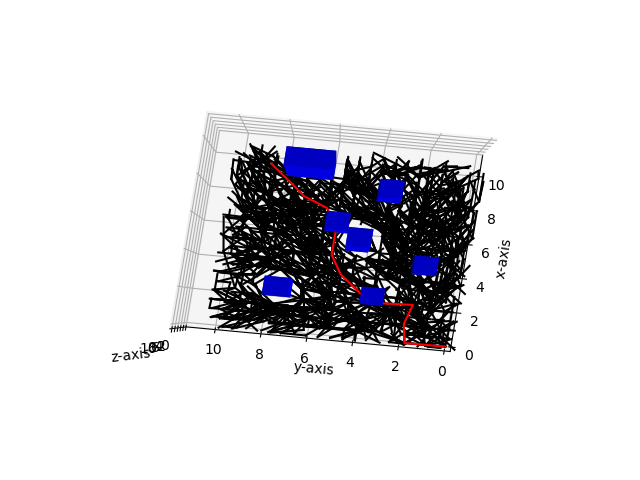
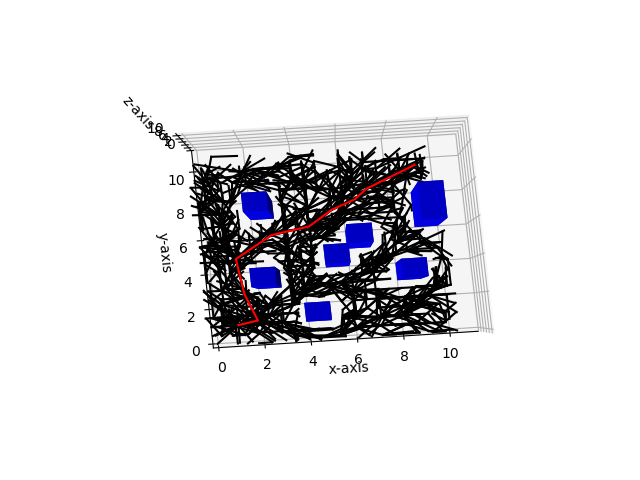
Adding the final working RRT star code with rewiring

Changed region(s): [[0.1875, 0.1875, 0.8125, 0.7812]]

diff --git a/RRT_star_fully_functional/RRT_star.py b/RRT_star_fully_functional/RRT_star.py
@@ -1,0 +1,321 @@
+import cv2
+import numpy as np
+import time
+import math
+import random 
+from sklearn.neighbors import KDTree
+from mpl_toolkits import mplot3d
+import matplotlib.pyplot as plt
+from mpl_toolkits.mplot3d import axes3d 
+import matplotlib.pyplot as plt 
+from matplotlib import style 
+from scipy import spatial
+import copy
+from queue import PriorityQueue 
+q = PriorityQueue() 
+plt.ion()
+# style.use('ggplot') 
+length = 10
+breadth = 10
+height = 10
+fig = plt.figure()
+ax = plt.axes(projection='3d')
+
+ax.set_xlim3d(0, 11)
+ax.set_ylim3d(0,11)
+ax.set_zlim3d(0,11)
+
+c = 0.25
+
+# def obstacle_check(i,j,k):
+#     a = b = c = d = e = f = g = h = 0
+#     if(1.75 <= i <=3.25) and (2.75 <= j <= 4.25) and (0 <= k <= 10):
+#         a = 1
+#     elif (3.75 <= i <=5.25) and (0.75 <= j <= 2.25) and (0 <= k <= 10):
+#         b = 1
+#     elif (5.75 <= i <=7.25) and (4.75 <= j <= 6.25) and (0 <= k <= 10):
+#         c = 1
+#     elif (7.75 <= i <=9.25) and (2.75 <= j <= 4.25) and (0 <= k <= 10):
+#         d = 1
+#     elif (8.75 <= i <=10.25) and (6.75 <= j <= 8.25) and (0 <= k <= 10):
+#         e = 1
+#     elif (1.75 <= i <=3.25) and (6.75 <= j <= 8.25) and (0 <= k <= 10):
+#         f = 1
+#     elif (4.75 <= i <=6.25) and (3.75 <= j <= 5.25) and (0 <= k <= 10):
+#         g = 1
+#     elif (8.75 <= i <=10.25) and (5.75 <= j <= 7.25) and (0 <= k <= 10):
+#         h = 1
+
+#     if  ((a == 1) or (b == 1) or (c == 1) or (d == 1) or (e == 1) or (f == 1) or (g == 1) or (h == 1)):
+#         return True
+#     else:
+#         return False
+
+
+def obstacle_check(i,j,k):
+    a = b = c = d = e = f = g = h = 0
+    if(2-c <= i <=3+c) and (3-c <= j <= 4+c) and (0 <= k <= 10):
+        a = 1
+    elif (4-c <= i <=5+c) and (1-c <= j <= 2+c) and (0 <= k <= 10):
+        b = 1
+    elif (6-c <= i <=7+c) and (5-c <= j <= 6+c) and (0 <= k <= 10):
+        c = 1
+    elif (8-c <= i <=9+c) and (3-c <= j <= 4+c) and (0 <= k <= 10):
+        d = 1
+    elif (6-c <= i <=7+c) and (7-c <= j <= 8+c) and (0 <= k <= 10):
+        e = 1
+    elif (2-c <= i <=3+c) and (7-c <= j <= 8+c) and (0 <= k <= 10):
+        f = 1
+    elif (4-c <= i <=5+c) and (4-c <= j <= 5+c) and (0 <= k <= 10):
+        g = 1
+    elif (9-c <= i <=10+c) and (6-c <= j <= 7+c) and (0 <= k <= 10):
+        h = 1
+
+    if  ((a == 1) or (b == 1) or (c == 1) or (d == 1) or (e == 1) or (f == 1) or (g == 1) or (h == 1)):
+        return True
+    else:
+        return False
+
+def obstacle_map():
+    # defining x, y, z co-ordinates for bar position 
+    x = [2,4,6,8,6,2,4,9] 
+    y = [3,1,5,3,7,7,4,6] 
+    z = np.zeros(8) 
+
+    # size of bars 
+    dx = np.ones(8)              # length along x-axis 
+    dy = np.ones(8)              # length along y-axs 
+    dz = [10,10,10,10,10,10,10,10]   # height of bar 
+
+    # setting color scheme 
+    color = [] 
+    for h in dz: 
+        if h > 5: 
+            color.append('b') 
+        else: 
+            color.append('b') 
+
+    ax.bar3d(x, y, z, dx, dy, dz, color = color) 
+
+
+
+def boundary_check(i, j, k):
+    if (i < 0) or (j < 0) or (k < 0) or (i >= length) or (j >= breadth) or (k >= height):
+        return True
+    else:
+        return False
+
+
+
+def line_obstacle_check(j, i):
+    k = (i[0] - j[0], i[1] - j[1], i[2] - j[2])
+    k_mod = math.sqrt(k[0]**2 + k[1]**2 + k[2]**2)
+    vec = (k[0]/k_mod, k[1]/k_mod, k[2]/k_mod)
+    new_point = (j[0]+0.1*vec[0], j[1]+ 0.1*vec[1], j[2]+0.1*vec[2])
+    return new_point
+
+def cost2go(pt1, pt2):
+    dist = math.sqrt((pt2[0] - pt1[0]) ** 2 + (pt2[1] - pt1[1]) ** 2 + (pt2[2] - pt1[2]) ** 2) 
+    return dist
+
+
+def generate_seed():
+    x = round(random.uniform(0 , length)*2)/2
+    y = round(random.uniform(0 , breadth)*2)/2
+    z = round(random.uniform(0 , height)*2)/2
+#     print(x,y,z)
+    return (x,y,z)
+    
+def goalcheck_circle(x, y, z, goal_x, goal_y, goal_z):
+    if ((x - goal_x) ** 2 + (y - goal_y) ** 2 + (z - goal_z) **2 <= (0.5 ** 2)):
+        return True
+    else:
+        return False
+    
+def max_step_prop(j, i):
+    k = (i[0] - j[0], i[1] - j[1], i[2] - j[2])
+    k_mod = math.sqrt(k[0]**2 + k[1]**2 + k[2]**2)
+    vec = (k[0]/k_mod, k[1]/k_mod, k[2]/k_mod)
+    new_point = (j[0]+2*vec[0], j[1]+ 2*vec[1], j[2]+2*vec[2])
+    return new_point
+
+def neighbours(seed, r, tree):
+    results = tree.query_ball_point((seed), r)
+#     print(results)
+    nearby_points = X[results]
+#     print("radius = ", r)
+#     print("nearby_points", nearby_points)
+    return nearby_points
+
+obstacle_map()
+start = (1.0,1.0,1.0)
+goal_x, goal_y, goal_z = (9.0,9.0,9.0)
+visited_nodes = set()
+all_nodes = []
+parent_list = []
+seed_list = []
+parent_dict = {}
+cost_dict = {}
+
+visited_nodes.add(start)
+all_nodes.append(start)
+parent_dict[start] = "okay"
+cost_dict[start] = 0
+
+seed = (0,0,0)
+# print("visitednodes",visited_nodes)
+# print("all_nodes", all_nodes)
+print("\n")
+
+i = 0
+while(goalcheck_circle(goal_x, goal_y, goal_z, seed[0], seed[1], seed[2]) == False):
+#     if(i ==5):
+#         break
+
+#     seed = seeds[i]
+#     i = i+1
+#     print("\n")
+#     print("seeed = ", seed)
+    seed = generate_seed()
+#     print("generated_seed", seed)
+    if ((seed not in visited_nodes) and not obstacle_check(seed[0], seed[1], seed[2])):
+        
+#         all_nodes.insert(0, seed) 
+        X = np.asarray(all_nodes)
+        tree = spatial.KDTree(X)
+        
+        r = 1.5
+        n = (0,0,0)
+
+        while(1):
+            n = neighbours(seed, r,tree)
+#             print("\n")
+            if(n == seed).all():
+                r = r + 1
+            else:
+                break
+#         print("neighbours", n)
+        
+        
+        for pt in n:
+#             print("pt", pt)
+            pt = tuple(pt)
+            cost = cost_dict[pt]
+            cost_new = cost + cost2go(pt, seed)
+#             print("cost_new", cost_new)
+            q.put((cost_new, pt, cost))
+        
+        parent = q.get()
+        q = PriorityQueue() 
+        parent = parent[1] 
+#         print("selected_neighbour", parent)
+              
+        
+        if (cost2go(parent,seed) > 2):
+            seed = max_step_prop(parent, seed)
+            seed = (round(seed[0], 1), round(seed[1], 1), round(seed[2], 1))
+            
+            
+        par = seed
+        s = parent
+        a = 0
+        # print(s)
+        while(cost2go(par,s)>=0.1):
+            a = line_obstacle_check(s, par)
+            # print(a)
+            if obstacle_check(a[0], a[1], a[2]):
+#                 print("inside")
+#                 print("stop point", a)
+                break
+            s = a
+
+        s = (round(s[0], 1), round(s[1], 1), round(s[2], 1))
+         
+#         s = seed
+        if s not in visited_nodes:
+            neww_cost = cost2go(seed, parent) + cost_dict[parent]  
+            all_nodes.insert(0, s)
+            visited_nodes.add(s)
+            parent_dict[s] = parent 
+            cost_dict[s] = neww_cost
+            parent_list.append((parent[0], parent[1], parent[2]))
+            seed_list.append((s[0], s[1], s[2]))
+            ax.plot3D((parent[0],s[0]), (parent[1], s[1]), (parent[2], s[2]), 'black')
+                # plt.show()
+                # print("\n")
+            for nei in n:
+                nei = tuple(nei)
+                if nei != parent:
+                    print("nei", nei)
+                    print(cost_dict[nei])
+                    if cost_dict[nei] > (cost_dict[s] + cost2go(s, nei)):
+                        print("reeeeeeeeeeeeeeeeeeeeeeeeeeeeeeeeeeeeeeeeeeeewired")
+                        parent_dict[nei] = s
+                        cost_dict[nei] = cost_dict[s] + cost2go(s, nei)
+        else:
+            all_nodes.pop(0)
+            
+
+            
+            
+#         print("parent", parent)
+#         print("final_seed", s)
+#         print("\n")
+#         print("cost", cost_dict)
+        
+# print("\n")
+# print("final parent dict", parent_dict)
+# print("\n")
+# print("points", all_nodes)
+# print("\n")
+# print("visited_nodes", visited_nodes)
+# print("\n")
+# print("cost_dict", cost_dict)
+# print("\n")
+# print("Goal_Reached")
+# print("dict", parent_dict)
+
+path = []
+path.append((s[0], s[1], s[2]))
+# print("parent of goal", parent)
+while parent != 'okay':
+    temp = parent_dict.get(parent)
+    path.append(parent)
+#     print(path)
+    parent = temp
+    if parent == (start):
+        break
+path.append(start)
+print("Backtracking done - shortest path found")
+
+path = path[::-1]
+
+
+x_path = [path[i][0] for i in range(len(path))]
+y_path = [path[i][1] for i in range(len(path))]
+z_path = [path[i][2] for i in range(len(path))]
+
+
+
+
+# l = 0
+
+# while l < len(seed_list):
+#     ax.plot3D((parent_list[l][0], seed_list[l][0]), (parent_list[l][1], seed_list[l][1]), (parent_list[l][2], seed_list[l][2]),  'black')
+#     l = l + 1
+#     plt.show()
+#     plt.pause(0.000000000000000000000000000000000001)
+
+
+
+
+ax.plot3D(x_path, y_path, z_path, "-r")
+print(path)
+ax.set_xlabel('x-axis') 
+ax.set_ylabel('y-axis') 
+ax.set_zlabel('z-axis') 
+plt.show()
+plt.pause(5)
+plt.savefig("output.png")
+plt.close()
+
